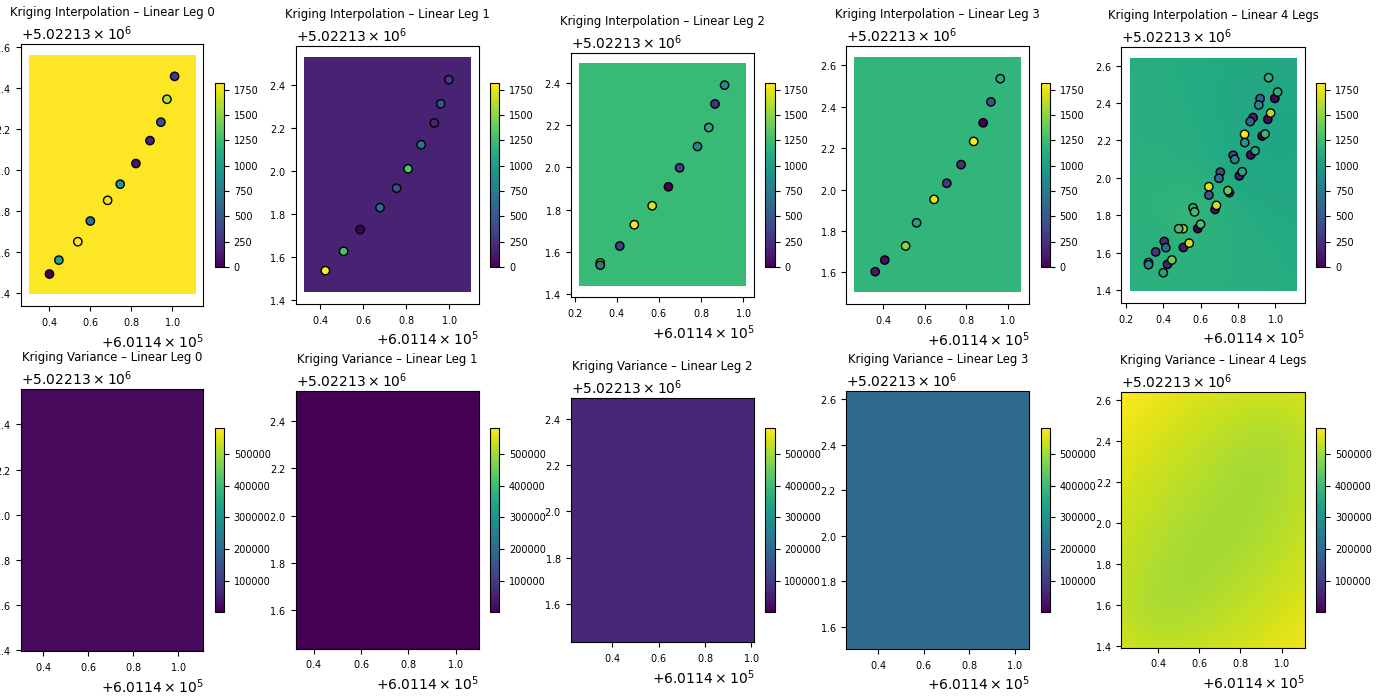
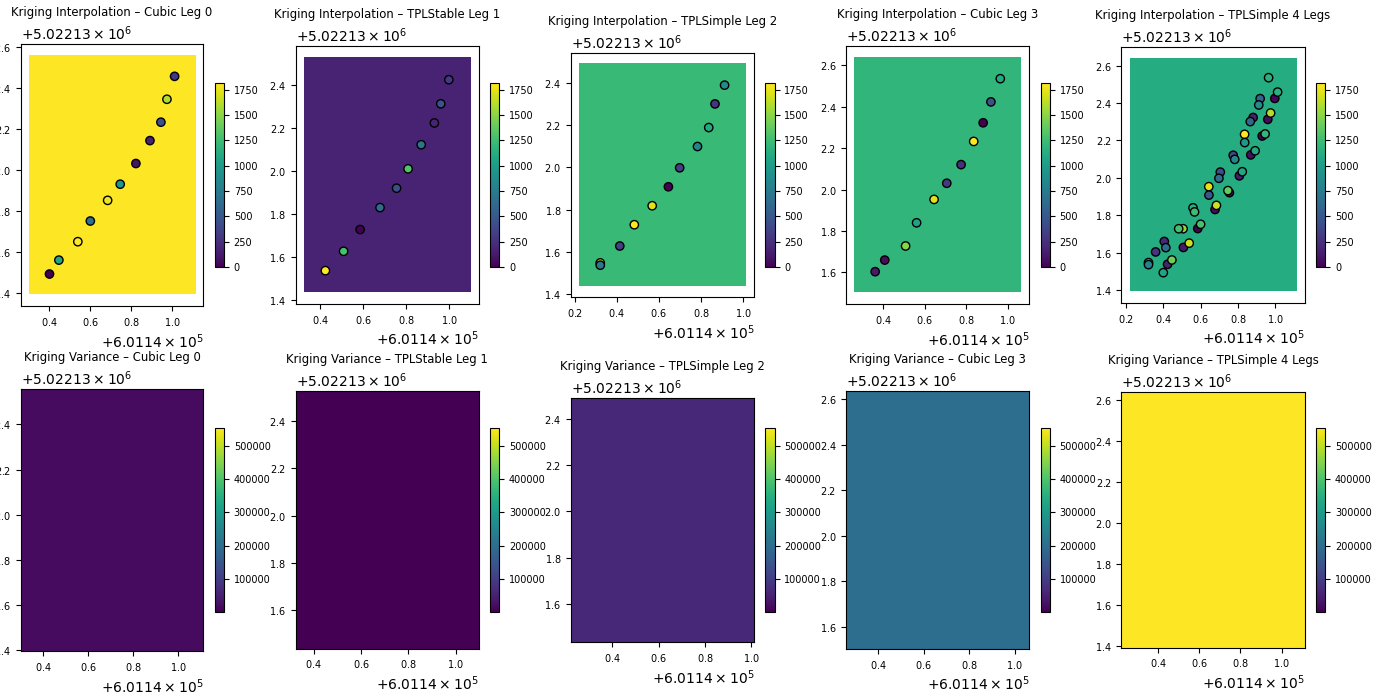
added screenshot, corrected small error

diff --git a/src/utility/krige_plotter.py b/src/utility/krige_plotter.py
@@ -119,7 +119,7 @@ class KrigingPlotter():
             x, y, stiff, title = csvparser.access_data(request)
             krige_model = KrigeModel(x, y, stiff, self.bin_num, self.length_scale)
             model_type, models_dict, bin_centers, gamma = krige_model.rank_models()
-            model, r2 = krige_model.create_model('Linear')
+            model, r2 = krige_model.create_model(model_type.name)
             krige_model.organize_kriging_area(match_steps, x_interpolation_start, x_interpolation_stop, y_interpolation_start, y_interpolation_stop)
             z_pred, var, x_interpolation_range, y_interpolation_range = krige_model.execute_kriging(model)
 
